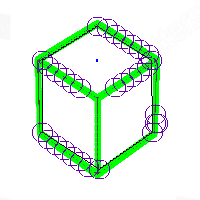
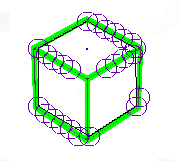
enables the CountVerticesFromCamera function

Changed region(s): [[0.1397, 0.0621, 0.8659, 0.9317], [0.4749, 0.2795, 0.5028, 0.3106]]

diff --git a/DepthByColor.py b/DepthByColor.py
@@ -1,6 +1,8 @@
 import cv2
 import math
 import bpy
+import bmesh
+import mathutils
 from .image_processing import PlaneItem, mark_corners, EditPicture, SaveImage
 from .DepthByColorHelper import AdjacentEdge, ImageDataClass, GetSlope, calucalateYIntercept, GetUniquePoints, CheckForInsideLines, CreateSolidLine, GetDistanceBetweenPoints, ColorCheck, GetFilledCircle, GetAverageOfAllCoordinateValuesInList, GetAverageDstBetweenPoints, getCircle, GetClosetPointsToValue, GetUniquePoints
 from threading import Thread, Lock
@@ -308,6 +310,7 @@ def CalculateCollision(pointWeCheck:list, LinePointDictionary:dict, imageDataCla
 #EdgeDataList: Returns the updated Edgedata list
 def CycleThroughEdgePointsForColor(EdgeDataList, imageDataClass:ImageDataClass):
     OringalImage= cv2.imread(imageDataClass.plane.PlaneFilepath)
+    OringalImage = cv2.resize(OringalImage, (200, 200))
     AverageColorList = []
 
     for edges in EdgeDataList: 
@@ -551,6 +554,7 @@ def GetMidPoint(MeshStructure):
     furthestDistance = 0 #This will hold the furthest distance from one point for comparison
     tempPoint = [1, 2, 3] #This will hold a temporary point for whatever point we need
     for point1 in MeshStructure:
+        tempPoint = list(point1) #This will hold a temporary point for whatever point we need
         for point2 in MeshStructure:
             if (point1 ==  point2): continue #if you are comparing the same point just continue on and ignore 
             else: 
@@ -614,10 +618,46 @@ def map_coordinates_to_indices(user_sequence):
 
     return indexed_pairs
   
-def ResetNormals(): #This function will reset the normals of the mesh once it has been generated
-    obj = bpy.context.active_object
-    bpy.ops.object.mode_set(mode='EDIT')
-    bpy.ops.mesh.select_all(action='SELECT')
-    bpy.ops.mesh.normals_make_consistent(inside=False)
-    bpy.ops.object.mode_set(mode='OBJECT')
+def ResetNormals(collectionName): #This function will reset the normals of the mesh once it has been generated
+    collection = bpy.data.collections.get(collectionName) #We get the collection once the collection has been made
 
+    if collection: #for all of the objects in the collection we will be reseting their normals
+        for obj in collection.objects:
+            if obj.type == 'MESH':
+                bpy.context.view_layer.objects.active = obj
+                bpy.ops.object.mode_set(mode='EDIT')
+                bpy.ops.mesh.select_all(action='SELECT')
+                bpy.ops.mesh.normals_make_consistent(inside=False)
+                bpy.ops.object.mode_set(mode='OBJECT')
+    # else: self.report({'ERROR'}, "Invalid Image") 
+
+def CountVerticesFromCamera(): #This function will count the amount of verticies visible relative to a camera
+    bm = bmesh.new() #bmesh grabs the data from a mesh in blender
+    camera = bpy.data.objects['Camera'] #The camera we will be counting our points from
+    scene = bpy.context.scene #Scene is needed to grab x and y coordinates
+    obj = bpy.context.object #grabbing the active object
+    desgraph = bpy.context.evaluated_depsgraph_get() #this is specifically used on the projection matrix
+    global visiblePoints
+
+    bpy.ops.object.mode_set(mode='OBJECT')
+    bpy.context.view_layer.objects.active = obj #setting the active object
+
+    bm.from_mesh(obj.data) #grabbing the mesh's data
+
+    #These two objects are the perspective matrixes of the camera which we will compare with the bmesh to see if they are inside the camera's view
+    cameraMatrix = camera.matrix_world.normalized().inverted()
+    cameraProjectionMatrix = camera.calc_matrix_camera(desgraph, x=scene.render.resolution_x, y=scene.render.resolution_y, scale_x=scene.render.pixel_aspect_x, scale_y=scene.render.pixel_aspect_y)
+
+    for vertex in bm.verts:
+        if IsVertexVisible(vertex, cameraMatrix, cameraProjectionMatrix): 
+            visiblePoints = visiblePoints + 1
+
+def IsVertexVisible(vertex, cameraMatrix, cameraProjectionMatrix): #Assistant function to the function above
+    cameraLocal = cameraMatrix @ vertex.co
+    cameraWorld = cameraProjectionMatrix @ cameraLocal.to_4d()
+
+    if cameraWorld.w > 0:
+        cameraWorld /= cameraWorld.w
+        if -1 <= cameraWorld.x <= 1 and -1 <= cameraWorld.y <= 1:
+            return True
+    return False

diff --git a/blender_operations.py b/blender_operations.py
@@ -4,9 +4,10 @@ from os import path
 import cv2
 import io
 import tempfile
+import time
 from .image_processing import PlaneItem, EditPicture, SaveImage
 from .file_conversion import blend_opener, fbx_opener
-from .DepthByColor import GenerateEdges, NormaliseData, GenerateShapeEdges, GetDistanceBetweenPoints, ColorCheck
+from .DepthByColor import GenerateEdges, NormaliseData, GenerateShapeEdges, GetDistanceBetweenPoints, ColorCheck, ResetNormals, CountVerticesFromCamera, visiblePoints
 
 #saveObj
 #Description
@@ -323,6 +324,8 @@ def DrawMeshToScreen(MeshStructure, self, CollectionName = "Sketch_to_Mesh_Colle
             bpy.context.scene.collection.children.link(collection)
         # add object to scene collection
         collection.objects.link(new_object)
+        ResetNormals(CollectionName)
+        CountVerticesFromCamera()
 
 
 #DrawMesh
